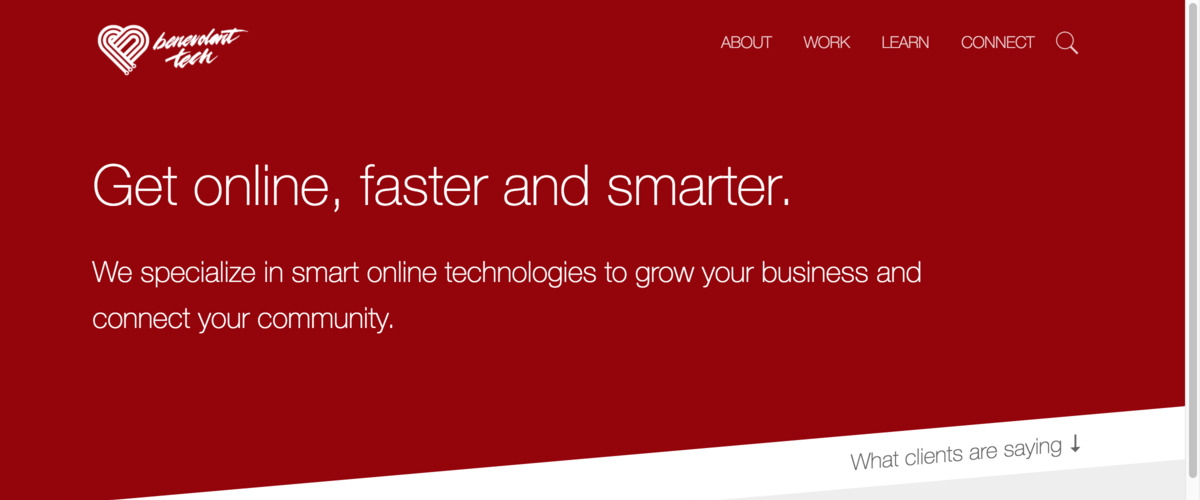
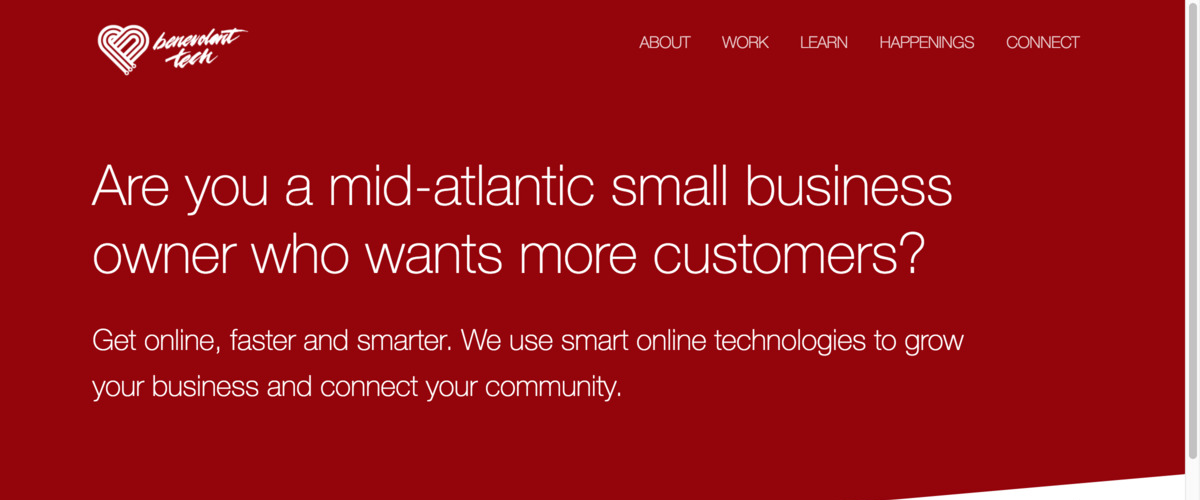
Tweaks to motto and mobile h2 size

diff --git a/css/screen.css b/css/screen.css
@@ -1,2 +1,2 @@
-html{background:#222}html,body{margin:0;padding:0}body{font-family:"Helvetica Neue", Helvetica, Arial, sans-serif}a{color:#94040B;text-decoration:none}a:hover{text-decoration:underline}img{max-width:100%;height:auto}h1{font-weight:300;font-size:2.3rem;margin:0}h2{font-weight:300;font-size:2.2rem;margin:0 0 30px 0}h3{font-size:1.8rem;margin:0 0 20px 0}h4{font-size:1.5rem;margin:0 0 10px 0}p,address,ul,ol,pre{margin:0 0 20px 0}p,address,ul,ol{font-size:1.38rem;color:#666;font-weight:300;line-height:1.6}pre{padding:10px;background:#eee;border-radius:2px}.container,.text-container{margin:0 auto;position:relative;padding:0 20px}.text-container{max-width:1000px}.container{max-width:1000px}.content{background:#fff;padding:1px 0 0 0;position:relative}.screenshot{height:auto;display:block;margin:0 auto;box-shadow:0 1px 0 #ccc, 0 1px 1px #eee;border-radius:2px;padding:20px 0 0;background:url("/images/screenshot-buttons.svg") 4px 4px no-repeat #DDD;box-shadow:0px 1px 2px rgba(0,0,0,0.1)}.editable ol{list-style-type:none;padding-left:0}.editable ol li{counter-increment:step-counter;position:relative;padding-left:67px;min-height:3em;padding-bottom:.5em}.editable ol li::before{position:absolute;left:0;top:0;content:counter(step-counter);font-size:2.5em;line-height:1.2em;background-color:#c8c8c8;color:white;font-weight:bold;padding:0 12px;border-radius:3px}section,footer{padding:100px 0;background:#fff;margin-top:-2px;position:relative}section.diagonal,footer.diagonal{-webkit-transform:skewY(-5deg);-moz-transform:skewY(-5deg);-ms-transform:skewY(-5deg);transform:skewY(-5deg)}section.diagonal>div:not(.not-skewed),footer.diagonal>div:not(.not-skewed){-webkit-transform:skewY(5deg);-moz-transform:skewY(5deg);-ms-transform:skewY(5deg);transform:skewY(5deg)}section.diagonal.diagonal-newsletter,footer.diagonal.diagonal-newsletter{background:#BCDEE0;text-align:center;padding:50px 0}section.diagonal.diagonal-newsletter form,footer.diagonal.diagonal-newsletter form{max-width:500px;width:80%;margin:auto}section.hero,footer.hero{color:#ffffff;background:#94040B;text-align:left;margin-top:-100px;padding-top:250px}section.hero h2,footer.hero h2,section.hero p,footer.hero p{max-width:90%}section.hero h2,footer.hero h2{font-size:3.3rem}@media (min-width: 620px){section.hero h2,footer.hero h2{font-size:3.5rem}}section.hero p,footer.hero p{font-size:1.5rem;color:#fff}@media (min-width: 620px){section.hero p,footer.hero p{font-size:1.8rem}}section.hero a:not(.button),footer.hero a:not(.button){color:#ffffff;font-style:italic}section.alternate,footer.alternate{background:#eee}section.share .blurb-share,footer.share .blurb-share{list-style-type:none;margin:0;padding:0;display:inline-block}section.share .blurb-share li,footer.share .blurb-share li{display:inline-block}section.share .blurb-share li a,footer.share .blurb-share li a{text-decoration:none}section.share .blurb-share li a svg,footer.share .blurb-share li a svg{fill:black;border:2px solid transparent}section.share .blurb-share li a svg:hover,footer.share .blurb-share li a svg:hover{border:2px solid black}section.partners table,footer.partners table{max-width:700px;width:100%;margin:auto;padding:30px 0}section.partners table td,footer.partners table td{padding:20px;width:30%}.button{-webkit-appearance:none;-moz-appearance:none;appearance:none;padding:13px 38px;border-radius:3px;transition:0.2s ease-in-out;display:inline-block;cursor:pointer;margin:20px 0 0 0;text-decoration:none !important;border:1px solid #94040B;color:#fff;background:#94040B}.button:hover{background:#BCDEE0;color:#222}.button.alt{border:1px solid #fff;color:#94040B;background:#fff}.button.alt:hover{background:#BCDEE0;color:#222}.button:active{opacity:1;background:rgba(255,255,255,0.1);color:#fff;transform:translateY(1px)}.halves{display:flex;flex-flow:wrap;align-items:center}.halves>div{flex:1 0 100%}@media (min-width: 620px){.halves>div{flex:1}.halves>div+div{padding-left:20px;margin:0}}.aligned-top{align-items:flex-start}.image-grid{padding:0;list-style:none;display:flex;flex-flow:wrap;text-align:center;margin:0 -20px}.image-grid li{padding:0;box-sizing:border-box;width:100%;position:relative;overflow:hidden;margin:20px;border-radius:5px;text-align:left;border:1px solid #94040B;line-height:0;background-size:cover;background-position:center center}.image-grid li.filler{display:none}@media (min-width: 768px){.image-grid li.filler{display:list-item}}.image-grid li:hover:not(.filler){box-shadow:0 0 8px 6px #BCDEE0;opacity:.8}@media (min-width: 620px){.image-grid li{flex:1 1 50%}}@media (min-width: 768px){.image-grid li{flex:1 1 30%}}.image-grid li>a{position:absolute;top:0;bottom:0;width:100%}.image-grid.home li{height:167px;display:none}@media (min-width: 620px){.image-grid.home li{display:list-item}}.image-grid.portfolio li,.image-grid.about li{height:300px}.image-grid .square-image{height:320px}.image-grid .square-image img{min-height:100%;width:100%;position:absolute;left:50%;top:50%;transform:translateX(-50%) translateY(-50%)}.image-grid .details{line-height:1.2;position:absolute;bottom:0;left:0;right:0;background:rgba(0,0,0,0.5);padding:20px}.image-grid .name{font-size:1.3rem;color:#BCDEE0}.image-grid .position{margin-top:5px;color:#fff}.image-grid .filler{border:0}.image-list,.image-list li{list-style:none;margin:0;padding:0;text-align:center;display:none;font-size:60px;line-height:1.1em}.image-list.image-list-right li,.image-list li.image-list-right li{padding-right:15%;text-align:right}@media (min-width: 620px){.image-list,.image-list li{display:list-item}}.patterned{background:#222 url("/images/pattern.png")}.patterned,.patterned p{color:#fefefe}.patterned a{color:#BCDEE0}@media (min-width: 620px){.hide-above-mobile{display:none}}.hide-on-mobile{display:none}@media (min-width: 620px){.hide-on-mobile{display:block}}section.map,footer.map{position:relative;height:100px;overflow:hidden}section.map>div,footer.map>div{position:absolute;top:-200px;left:0;right:0;bottom:-200px}.blog-posts{list-style:none;padding:0}.blog-posts li{margin:0 0 50px}.blog-post:last-of-type{margin-bottom:-70px}.blog-post h3{margin:0}.blog-post h3 a{color:#000;text-decoration:none;font-weight:normal;font-size:1.3em}.blog-post h2{text-align:left}.blog-post .post-details{margin:5px 0;font-size:1.2rem}.blog-post .post-details .blog-filter{display:inline-block;text-align:left}.blog-post .post-details .blog-filter a{position:relative;top:-5px}.blog-post .post-details a{text-decoration:none}.blog-post .post-details .post-date{position:relative;top:-3px;margin-left:5px}.blog-post .post-details:after{content:"";display:table;clear:both}.blog-post .post-content .button{margin:30px 0 0 0}.pagination{text-align:center}.blog-filter{text-align:center}.blog-filter a{background:#eee;padding:3px 5px;font-size:.8em;border-radius:5px;color:#888;transition:.2s ease-in-out}.blog-filter a:hover{color:#555;text-decoration:none}input[type=submit]{padding:20px 30px}textarea,input,button,select{font-family:inherit;font-size:inherit}input[type=submit]{margin:20px 0 0 0}label,input,textarea{display:block;width:100%;box-sizing:border-box}textarea{resize:vertical;height:250px}label{margin:30px 0 10px 0;font-size:1.2em}input,textarea{padding:20px;font-size:1.2em;border-radius:3px}input,textarea{-webkit-transition:all 0.30s ease-in-out;-moz-transition:all 0.30s ease-in-out;-ms-transition:all 0.30s ease-in-out;outline:none;border:1px solid #DDDDDD}input[type=text]:focus,input[type=email]:focus,input[type=password]:focus,textarea:focus{box-shadow:0 0 5px #51cbee;border:1px solid #51cbee}header{color:#fff;padding:20px 0;position:absolute;top:0;left:0;width:100%}header a{color:#fff;text-decoration:none;z-index:1;position:relative}header a:hover{text-decoration:none}header .company-name{background-image:url(/images/logo.png);background-size:contain;background-repeat:no-repeat;width:160px;height:70px;position:relative;z-index:99}header .company-name:hover{background-image:url(/images/logo-alt.png)}header .company-name::after{position:absolute;width:0;height:0;overflow:hidden;z-index:-1;content:url(/images/logo-alt.png)}header .company-name a{position:absolute;top:0;bottom:0;width:100%}header nav{text-transform:uppercase;font-size:0.8em;width:100%}header nav ul{margin:0;padding:0}header nav li{display:block}@media (min-width: 620px){header nav{text-align:right;position:absolute;top:0;right:0;padding:0 20px}header nav li{display:inline-block}}header nav a{margin:0 3px;padding:20px 10px;color:rgba(255,255,255,0.8);transition:0.2s ease-in-out;display:none;font-size:1rem}@media (min-width: 620px){header nav a{border-bottom:2px solid rgba(255,255,255,0);display:block;padding:10px}}header nav a.nav-toggle{display:inline;position:absolute;right:10px;top:-22px;font-size:3.2em;border:0}@media (min-width: 620px){header nav a.nav-toggle{display:none}}header nav a.nav-toggle:hover{border:0}header nav a:hover{color:#fff}@media (min-width: 620px){header nav a:hover{border-bottom:2px solid rgba(255,255,255,0.6);display:block;padding:10px}}@media (min-width: 620px){header nav a.highlight{border:1px #ccc solid;border-radius:5px}header nav a.highlight:hover{background:#fff;color:#94040B}}header nav a.active{color:#fff}.nav-open header{background:#444;z-index:10}@media (min-width: 620px){.nav-open header{background:none}}.nav-open nav{margin:20px 0 0 0;border:0}.nav-open nav a:not(.hide-on-mobile){display:block}@media (min-width: 620px){.nav-open nav{border:0;padding:0 20px}.nav-open nav a{display:inline}}footer{padding:100px 0 50px 0;position:relative;background:#222;color:#fff}footer,footer a{color:#999}footer h2{font-size:1.4em;margin:30px 0;color:#ccc}footer .footer-columns{display:none;margin:-10px -10px 10px -10px}@media (min-width: 620px){footer .footer-columns{display:flex;flex-flow:wrap}}footer a{text-decoration:none}footer a:hover{color:#fff}footer .legal-line{width:100%;padding:30px 0 0 0;margin:0}footer .legal-line a{font-style:italic}footer .legal-line.desktop{display:none}@media (min-width: 620px){footer .legal-line.desktop{display:block}}footer .legal-line.mobile{text-align:center;display:block}@media (min-width: 620px){footer .legal-line.mobile{display:none}}footer .footer-links{width:100%;margin:10px;padding:0;flex:1 0 180px}footer .footer-links li{list-style:none;margin:15px 0}footer .footer-links li a svg{fill:#999;margin-right:10px;transition:fill 0.2s ease;vertical-align:middle;position:relative;top:-2px;width:22px;height:22px}footer .footer-links li a:hover{text-decoration:none}footer .footer-links li a:hover svg{fill:#fff}footer .footer-links-mobile .footer-links{display:table}footer .footer-links-mobile .footer-links li{display:table-cell;text-align:center}footer .footer-links-mobile .footer-links li a svg{width:32px;height:32px}@media (min-width: 620px){footer .footer-links-mobile{display:none}}.editor-link{display:none;margin-top:0}.editor-link .btn{background-color:#f7e064;color:#333;box-shadow:1px 1px 5px 0 rgba(0,0,0,0.2);padding:10px;border-radius:2px}.editor-link .btn:hover{background-color:#f4d525;text-decoration:none;color:#333}.cms-editor-active .editor-link{display:block}.page--search{overflow-y:scroll;background:#FFF}.page--search .main{min-height:360px}.page--search #left-column{float:left;width:23%}.page--search #right-column{width:74%;margin-left:26%}.page--search #center-column{max-width:900px;margin-top:40px;width:95%;margin-left:auto;margin-right:auto}.page--search .clear:after{content:'';display:table;clear:both}.page--search #search-input input{font-size:28px;font-weight:100;width:100%;padding:10px 0 6px;border:none;border-bottom:5px solid #eee;margin-bottom:24px}.page--search #search-input input,.page--search #search-input input:focus{transition:border-color .3s ease-in;outline:0;box-shadow:none}.page--search #search-input input:focus{border-color:#ed5565}.page--search #search-input input::-webkit-input-placeholder,.page--search #search-input input:-moz-placeholder,.page--search #search-input input:-moz-placeholder,.page--search #search-input input:-ms-input-placeholder{font-weight:100;color:#999}.page--search #search-input-icon{position:relative}.page--search #search-input-icon:before{position:absolute;right:0;bottom:35px;width:20px;height:20px;content:'';cursor:default;background:url(/images/search_icon.png) no-repeat}.page--search #hits{margin:4px 0;padding:10px 0;border-top:2px solid #eee}.page--search .hit{font-size:0;padding:15px 15px;margin-left:-15px;margin-right:-15px;border-bottom:1px solid #eee;position:relative}.page--search .hit a{position:absolute;top:0;bottom:0;width:100%}.page--search .hit:hover{background:#BCDEE0}.page--search .hit-name{margin:0}.page--search .hit-image{display:inline-block;width:16%;text-align:center}.page--search .hit-image img{max-width:100%;max-height:180px}.page--search .hit-content{font-size:13px;font-weight:300;display:inline-block;width:81%;margin-left:3%;vertical-align:top}.page--search .hit-stars{font-size:17px;margin:4px 0;color:#868686}.page--search .hit-content .hit-price{float:right;margin-left:20px;color:#ffffff;background:#383838;padding:4px;border-radius:3px}.page--search .hit-content .hit-price,.page--search .hit-content .hit-name{font-size:25px;font-weight:normal;margin-top:0}.page--search .hit-content em{font-style:normal;color:#ed5565;border-bottom:solid 1px rgba(244,107,91,0.5)}.page--search .hit-content p{font-size:13px}.page--search .hit-description em{color:inherit}.page--search .hit-category-breadcrumb{margin:5px 0 2px 0}.page--search .hit-category-breadcrumb em{color:inherit}.page--search .hit-content .hit-description{color:#868686;margin:4px 0 10px 0;font-size:20px}.page--search #pagination{margin-top:60px}.page--search #pagination ul{font-size:0;list-style-type:none;text-align:center}.page--search #pagination li{font-size:14px;display:inline}.page--search #pagination a{padding:8px 12px;text-decoration:none;color:#000;border:1px solid #eee}.page--search #pagination a:hover{background:#f5f5f5}.page--search #pagination li:first-child a{border-top-left-radius:4px;border-bottom-left-radius:4px}.page--search #pagination li:last-child a{border-right:1px solid #eee;border-top-right-radius:4px;border-bottom-right-radius:4px}.page--search #pagination li.ais-pagination--item__active a{color:white;border-color:#ed5565;background:#ed5565}.page--search #pagination li.ais-pagination--item__active a:hover{cursor:default}.page--search #pagination li.ais-pagination--item__disabled a{cursor:not-allowed}.page--search #pagination li.ais-pagination--item__disabled a:hover{background:none}.page--search #sort-by-wrapper{font-weight:300;position:relative;float:right;color:#999}.page--search #sort-by select{font-size:16px;padding-right:14px;cursor:pointer;border:none;outline:none;background:none;-webkit-appearance:none;-moz-appearance:none}.page--search #sort-by:after{content:"";display:inline-block;position:absolute;top:8px;right:0;width:0;height:0;margin-left:2px;vertical-align:middle;color:#000;border-top:4px dashed;border-right:4px solid transparent;border-left:4px solid transparent;pointer-events:none}.page--search #stats .ais-stats--time{font-size:0.8em;color:#999}.page--search .facet{margin-bottom:24px;font-size:14px;color:#000}.page--search .facet h5{margin:0 0 6px;padding:0 0 6px;text-transform:uppercase;border-bottom:2px solid #eee}.page--search .facet ul{margin:0;padding:0;list-style-type:none}.page--search .facet li{margin-bottom:3px}.page--search .facet a:visited,.page--search .facet a{color:#000;text-decoration:none;cursor:pointer}.page--search .ais-root__collapsible .ais-header h5:hover{border-color:#c5c5c5;transition:border 500ms ease-out}.page--search .ais-root__collapsible.ais-root__collapsed .ais-header h5:hover{border-color:#333}.page--search .ais-root__collapsible .ais-header h5:before{display:inline-block;font:normal normal normal 16px/1 FontAwesome;content:"\f106";float:right}.page--search .ais-root__collapsible.ais-root__collapsed .ais-header h5:before{content:"\f107"}.page--search .ais-refinement-list--label,.page--search .ais-hierarchical-menu--list .facet-item,.page--search .ais-menu--link,.page--search .ais-price-ranges--item{cursor:pointer;line-height:1.5em}.page--search .ais-hierarchical-menu--list .ais-hierarchical-menu--item{margin:3px 0}.page--search .ais-hierarchical-menu--link:before{display:inline-block;font:normal normal normal 14px/1 FontAwesome;content:"\f105";padding:0 5px 0 0}.page--search .sffv_no-results{font-size:13px;line-height:1.2;padding-top:6px}.page--search .ais-refinement-list--label:hover,.page--search .ais-refinement-list--item__active .ais-refinement-list--label,.page--search .ais-menu--link:hover,.page--search .ais-menu--item__active .ais-menu--link,.page--search .ais-hierarchical-menu--list .facet-item.active:hover,.page--search .ais-hierarchical-menu--list .facet-item.active{color:#ed5565}.page--search .ais-refinement-list--item__active .ais-refinement-list--label:hover,.page--search .ais-menu--item__active .ais-menu--link:hover,.page--search .ais-hierarchical-menu--list .facet-item.active:hover{text-decoration:line-through;color:#ed5565}.page--search .ais-refinement-list--count,.page--search .ais-hierarchical-menu--count,.page--search .ais-menu--count,.page--search .ais-star-rating--count,.page--search .ais-toggle--count{position:relative;top:3px;float:right;color:#999}.page--search #type.facet .ais-refinement-list--checkbox{display:none}.page--search .no-results #pagination,.page--search .no-results #sort-by,.page--search .no-results #stats,.page--search .no-results #facets{display:none}.page--search #no-results-message{text-align:center}.page--search #no-results-message p{font-size:28px;font-weight:100}.page--search #no-results-message ul{list-style-type:none}.page--search #no-results-message li{font-size:12px;position:relative;display:inline-block;margin:4px 2px;padding:4px 28px 4px 8px;color:#999;border:1px solid #ddd;border-radius:12px}.page--search #no-results-message li span.value{font-weight:bold;color:#000}.page--search #no-results-message li a.remove img{position:absolute;top:3px;right:5px;float:right;width:17px;height:17px;opacity:.5}.page--search #no-results-message li a.remove:hover img{opacity:1}.page--search a.clear-all{font-size:12px;line-height:1;display:inline-block;margin:10px;padding:8px 12px;text-decoration:none;color:black;border:2px solid #ddd;border-radius:4px}.page--search a.clear-all:hover{transition:border-color .3s ease-in;border-color:#999}.page--search .ais-range-slider--target{margin:40px 30px 50px 0;font-size:13px}.page--search .ais-range-slider--connect{background:#ed5565}.page--search .ais-range-slider--handle{border-color:#ed5565}.page--search .ais-body.ais-range-slider--body{left:10px;position:relative}.page--search .ais-star-rating--star,.page--search .ais-star-rating--star__empty{display:inline-block;width:1em;height:1em}.page--search .ais-star-rating--star:before{content:'\2605';color:#FBAE00}.page--search .ais-star-rating--star__empty:before{content:'\2606';color:#FBAE00}.page--search .ais-star-rating--link__disabled .ais-star-rating--star:before,.page--search .ais-star-rating--link__disabled .ais-star-rating--star__empty:before{color:#C9C9C9}.page--search .ais-price-ranges--form{margin-top:8px}.page--search .ais-price-ranges--currency{display:inline-block;margin-right:4px}.page--search .ais-price-ranges--input{display:inline-block;width:50px;border-radius:2px;border:solid 1px #ccc;font-weight:normal;font-size:15px}.page--search .ais-price-ranges--button{padding:4px 7px;display:inline-block;margin:0 0 0 6px}.page--search .ais-toggle--label{cursor:pointer}.page--search .ais-show-more{font-weight:bold;opacity:.7;padding-left:4px;position:relative;line-height:25px;font-size:.9em}.page--search .ais-show-more:hover,.page--search .ais-show-more:focus{opacity:1}.page--search .ais-show-more:before{font-family:FontAwesome;font-style:inherit;font-weight:inherit;text-decoration:inherit;display:inline-block;position:relative;content:'';margin:0 5px 0 0}.page--search .ais-show-more__inactive:before{content:"\f0fe"}.page--search .ais-show-more__active:before{content:"\f146"}.page--search .ais-current-refined-values{position:relative}.page--search footer{font-size:14px;margin-top:200px;margin-bottom:15px;text-align:center}.page--search footer a{text-decoration:none;color:#ed5565}.page--search footer a:hover{text-decoration:underline;color:#ed5565}.page--search .algolia__result-highlight{border-bottom:2px solid #94040B}.page--search #back-button{position:absolute;top:10px;right:10px;height:28px;width:28px}.page--search #back-button a:hover polygon{fill:#94040B}
+html{background:#222}html,body{margin:0;padding:0}body{font-family:"Helvetica Neue", Helvetica, Arial, sans-serif}a{color:#94040B;text-decoration:none}a:hover{text-decoration:underline}img{max-width:100%;height:auto}h1{font-weight:300;font-size:2.3rem;margin:0}h2{font-weight:300;font-size:2.2rem;margin:0 0 30px 0}h3{font-size:1.8rem;margin:0 0 20px 0}h4{font-size:1.5rem;margin:0 0 10px 0}p,address,ul,ol,pre{margin:0 0 20px 0}p,address,ul,ol{font-size:1.38rem;color:#666;font-weight:300;line-height:1.6}pre{padding:10px;background:#eee;border-radius:2px}.container,.text-container{margin:0 auto;position:relative;padding:0 20px}.text-container{max-width:1000px}.container{max-width:1000px}.content{background:#fff;padding:1px 0 0 0;position:relative}.screenshot{height:auto;display:block;margin:0 auto;box-shadow:0 1px 0 #ccc, 0 1px 1px #eee;border-radius:2px;padding:20px 0 0;background:url("/images/screenshot-buttons.svg") 4px 4px no-repeat #DDD;box-shadow:0px 1px 2px rgba(0,0,0,0.1)}.editable ol{list-style-type:none;padding-left:0}.editable ol li{counter-increment:step-counter;position:relative;padding-left:67px;min-height:3em;padding-bottom:.5em}.editable ol li::before{position:absolute;left:0;top:0;content:counter(step-counter);font-size:2.5em;line-height:1.2em;background-color:#c8c8c8;color:white;font-weight:bold;padding:0 12px;border-radius:3px}section,footer{padding:100px 0;background:#fff;margin-top:-2px;position:relative}section.diagonal,footer.diagonal{-webkit-transform:skewY(-5deg);-moz-transform:skewY(-5deg);-ms-transform:skewY(-5deg);transform:skewY(-5deg)}section.diagonal>div:not(.not-skewed),footer.diagonal>div:not(.not-skewed){-webkit-transform:skewY(5deg);-moz-transform:skewY(5deg);-ms-transform:skewY(5deg);transform:skewY(5deg)}section.diagonal.diagonal-newsletter,footer.diagonal.diagonal-newsletter{background:#BCDEE0;text-align:center;padding:50px 0}section.diagonal.diagonal-newsletter form,footer.diagonal.diagonal-newsletter form{max-width:500px;width:80%;margin:auto}section.hero,footer.hero{color:#ffffff;background:#94040B;text-align:left;margin-top:-100px;padding-top:250px}section.hero h2,footer.hero h2,section.hero p,footer.hero p{max-width:90%}section.hero h2,footer.hero h2{font-size:2.6rem}@media (min-width: 620px){section.hero h2,footer.hero h2{font-size:3.3rem}}section.hero p,footer.hero p{font-size:1.5rem;color:#fff}@media (min-width: 620px){section.hero p,footer.hero p{font-size:1.8rem}}section.hero a:not(.button),footer.hero a:not(.button){color:#ffffff;font-style:italic}section.alternate,footer.alternate{background:#eee}section.share .blurb-share,footer.share .blurb-share{list-style-type:none;margin:0;padding:0;display:inline-block}section.share .blurb-share li,footer.share .blurb-share li{display:inline-block}section.share .blurb-share li a,footer.share .blurb-share li a{text-decoration:none}section.share .blurb-share li a svg,footer.share .blurb-share li a svg{fill:black;border:2px solid transparent}section.share .blurb-share li a svg:hover,footer.share .blurb-share li a svg:hover{border:2px solid black}section.partners table,footer.partners table{max-width:700px;width:100%;margin:auto;padding:30px 0}section.partners table td,footer.partners table td{padding:20px;width:30%}.button{-webkit-appearance:none;-moz-appearance:none;appearance:none;padding:13px 38px;border-radius:3px;transition:0.2s ease-in-out;display:inline-block;cursor:pointer;margin:20px 0 0 0;text-decoration:none !important;border:1px solid #94040B;color:#fff;background:#94040B}.button:hover{background:#BCDEE0;color:#222}.button.alt{border:1px solid #fff;color:#94040B;background:#fff}.button.alt:hover{background:#BCDEE0;color:#222}.button:active{opacity:1;background:rgba(255,255,255,0.1);color:#fff;transform:translateY(1px)}.halves{display:flex;flex-flow:wrap;align-items:center}.halves>div{flex:1 0 100%}@media (min-width: 620px){.halves>div{flex:1}.halves>div+div{padding-left:20px;margin:0}}.aligned-top{align-items:flex-start}.image-grid{padding:0;list-style:none;display:flex;flex-flow:wrap;text-align:center;margin:0 -20px}.image-grid li{padding:0;box-sizing:border-box;width:100%;position:relative;overflow:hidden;margin:20px;border-radius:5px;text-align:left;border:1px solid #94040B;line-height:0;background-size:cover;background-position:center center}.image-grid li.filler{display:none}@media (min-width: 768px){.image-grid li.filler{display:list-item}}.image-grid li:hover:not(.filler){box-shadow:0 0 8px 6px #BCDEE0;opacity:.8}@media (min-width: 620px){.image-grid li{flex:1 1 50%}}@media (min-width: 768px){.image-grid li{flex:1 1 30%}}.image-grid li>a{position:absolute;top:0;bottom:0;width:100%}.image-grid.home li{height:167px;display:none}@media (min-width: 620px){.image-grid.home li{display:list-item}}.image-grid.portfolio li,.image-grid.about li{height:300px}.image-grid .square-image{height:320px}.image-grid .square-image img{min-height:100%;width:100%;position:absolute;left:50%;top:50%;transform:translateX(-50%) translateY(-50%)}.image-grid .details{line-height:1.2;position:absolute;bottom:0;left:0;right:0;background:rgba(0,0,0,0.5);padding:20px}.image-grid .name{font-size:1.3rem;color:#BCDEE0}.image-grid .position{margin-top:5px;color:#fff}.image-grid .filler{border:0}.image-list,.image-list li{list-style:none;margin:0;padding:0;text-align:center;display:none;font-size:60px;line-height:1.1em}.image-list.image-list-right li,.image-list li.image-list-right li{padding-right:15%;text-align:right}@media (min-width: 620px){.image-list,.image-list li{display:list-item}}.patterned{background:#222 url("/images/pattern.png")}.patterned,.patterned p{color:#fefefe}.patterned a{color:#BCDEE0}@media (min-width: 620px){.hide-above-mobile{display:none}}.hide-on-mobile{display:none}@media (min-width: 620px){.hide-on-mobile{display:block}}section.map,footer.map{position:relative;height:100px;overflow:hidden}section.map>div,footer.map>div{position:absolute;top:-200px;left:0;right:0;bottom:-200px}.blog-posts{list-style:none;padding:0}.blog-posts li{margin:0 0 50px}.blog-post:last-of-type{margin-bottom:-70px}.blog-post h3{margin:0}.blog-post h3 a{color:#000;text-decoration:none;font-weight:normal;font-size:1.3em}.blog-post h2{text-align:left}.blog-post .post-details{margin:5px 0;font-size:1.2rem}.blog-post .post-details .blog-filter{display:inline-block;text-align:left}.blog-post .post-details .blog-filter a{position:relative;top:-5px}.blog-post .post-details a{text-decoration:none}.blog-post .post-details .post-date{position:relative;top:-3px;margin-left:5px}.blog-post .post-details:after{content:"";display:table;clear:both}.blog-post .post-content .button{margin:30px 0 0 0}.pagination{text-align:center}.blog-filter{text-align:center}.blog-filter a{background:#eee;padding:3px 5px;font-size:.8em;border-radius:5px;color:#888;transition:.2s ease-in-out}.blog-filter a:hover{color:#555;text-decoration:none}input[type=submit]{padding:20px 30px}textarea,input,button,select{font-family:inherit;font-size:inherit}input[type=submit]{margin:20px 0 0 0}label,input,textarea{display:block;width:100%;box-sizing:border-box}textarea{resize:vertical;height:250px}label{margin:30px 0 10px 0;font-size:1.2em}input,textarea{padding:20px;font-size:1.2em;border-radius:3px}input,textarea{-webkit-transition:all 0.30s ease-in-out;-moz-transition:all 0.30s ease-in-out;-ms-transition:all 0.30s ease-in-out;outline:none;border:1px solid #DDDDDD}input[type=text]:focus,input[type=email]:focus,input[type=password]:focus,textarea:focus{box-shadow:0 0 5px #51cbee;border:1px solid #51cbee}header{color:#fff;padding:20px 0;position:absolute;top:0;left:0;width:100%}header a{color:#fff;text-decoration:none;z-index:1;position:relative}header a:hover{text-decoration:none}header .company-name{background-image:url(/images/logo.png);background-size:contain;background-repeat:no-repeat;width:160px;height:70px;position:relative;z-index:99}header .company-name:hover{background-image:url(/images/logo-alt.png)}header .company-name::after{position:absolute;width:0;height:0;overflow:hidden;z-index:-1;content:url(/images/logo-alt.png)}header .company-name a{position:absolute;top:0;bottom:0;width:100%}header nav{text-transform:uppercase;font-size:0.8em;width:100%}header nav ul{margin:0;padding:0}header nav li{display:block}@media (min-width: 620px){header nav{text-align:right;position:absolute;top:0;right:0;padding:0 20px}header nav li{display:inline-block}}header nav a{margin:0 3px;padding:20px 10px;color:rgba(255,255,255,0.8);transition:0.2s ease-in-out;display:none;font-size:1rem}@media (min-width: 620px){header nav a{border-bottom:2px solid rgba(255,255,255,0);display:block;padding:10px}}header nav a.nav-toggle{display:inline;position:absolute;right:10px;top:-22px;font-size:3.2em;border:0}@media (min-width: 620px){header nav a.nav-toggle{display:none}}header nav a.nav-toggle:hover{border:0}header nav a:hover{color:#fff}@media (min-width: 620px){header nav a:hover{border-bottom:2px solid rgba(255,255,255,0.6);display:block;padding:10px}}@media (min-width: 620px){header nav a.highlight{border:1px #ccc solid;border-radius:5px}header nav a.highlight:hover{background:#fff;color:#94040B}}header nav a.active{color:#fff}.nav-open header{background:#444;z-index:10}@media (min-width: 620px){.nav-open header{background:none}}.nav-open nav{margin:20px 0 0 0;border:0}.nav-open nav a:not(.hide-on-mobile){display:block}@media (min-width: 620px){.nav-open nav{border:0;padding:0 20px}.nav-open nav a{display:inline}}footer{padding:100px 0 50px 0;position:relative;background:#222;color:#fff}footer,footer a{color:#999}footer h2{font-size:1.4em;margin:30px 0;color:#ccc}footer .footer-columns{display:none;margin:-10px -10px 10px -10px}@media (min-width: 620px){footer .footer-columns{display:flex;flex-flow:wrap}}footer a{text-decoration:none}footer a:hover{color:#fff}footer .legal-line{width:100%;padding:30px 0 0 0;margin:0}footer .legal-line a{font-style:italic}footer .legal-line.desktop{display:none}@media (min-width: 620px){footer .legal-line.desktop{display:block}}footer .legal-line.mobile{text-align:center;display:block}@media (min-width: 620px){footer .legal-line.mobile{display:none}}footer .footer-links{width:100%;margin:10px;padding:0;flex:1 0 180px}footer .footer-links li{list-style:none;margin:15px 0}footer .footer-links li a svg{fill:#999;margin-right:10px;transition:fill 0.2s ease;vertical-align:middle;position:relative;top:-2px;width:22px;height:22px}footer .footer-links li a:hover{text-decoration:none}footer .footer-links li a:hover svg{fill:#fff}footer .footer-links-mobile .footer-links{display:table}footer .footer-links-mobile .footer-links li{display:table-cell;text-align:center}footer .footer-links-mobile .footer-links li a svg{width:32px;height:32px}@media (min-width: 620px){footer .footer-links-mobile{display:none}}.editor-link{display:none;margin-top:0}.editor-link .btn{background-color:#f7e064;color:#333;box-shadow:1px 1px 5px 0 rgba(0,0,0,0.2);padding:10px;border-radius:2px}.editor-link .btn:hover{background-color:#f4d525;text-decoration:none;color:#333}.cms-editor-active .editor-link{display:block}.page--search{overflow-y:scroll;background:#FFF}.page--search .main{min-height:360px}.page--search #left-column{float:left;width:23%}.page--search #right-column{width:74%;margin-left:26%}.page--search #center-column{max-width:900px;margin-top:40px;width:95%;margin-left:auto;margin-right:auto}.page--search .clear:after{content:'';display:table;clear:both}.page--search #search-input input{font-size:28px;font-weight:100;width:100%;padding:10px 0 6px;border:none;border-bottom:5px solid #eee;margin-bottom:24px}.page--search #search-input input,.page--search #search-input input:focus{transition:border-color .3s ease-in;outline:0;box-shadow:none}.page--search #search-input input:focus{border-color:#ed5565}.page--search #search-input input::-webkit-input-placeholder,.page--search #search-input input:-moz-placeholder,.page--search #search-input input:-moz-placeholder,.page--search #search-input input:-ms-input-placeholder{font-weight:100;color:#999}.page--search #search-input-icon{position:relative}.page--search #search-input-icon:before{position:absolute;right:0;bottom:35px;width:20px;height:20px;content:'';cursor:default;background:url(/images/search_icon.png) no-repeat}.page--search #hits{margin:4px 0;padding:10px 0;border-top:2px solid #eee}.page--search .hit{font-size:0;padding:15px 15px;margin-left:-15px;margin-right:-15px;border-bottom:1px solid #eee;position:relative}.page--search .hit a{position:absolute;top:0;bottom:0;width:100%}.page--search .hit:hover{background:#BCDEE0}.page--search .hit-name{margin:0}.page--search .hit-image{display:inline-block;width:16%;text-align:center}.page--search .hit-image img{max-width:100%;max-height:180px}.page--search .hit-content{font-size:13px;font-weight:300;display:inline-block;width:81%;margin-left:3%;vertical-align:top}.page--search .hit-stars{font-size:17px;margin:4px 0;color:#868686}.page--search .hit-content .hit-price{float:right;margin-left:20px;color:#ffffff;background:#383838;padding:4px;border-radius:3px}.page--search .hit-content .hit-price,.page--search .hit-content .hit-name{font-size:25px;font-weight:normal;margin-top:0}.page--search .hit-content em{font-style:normal;color:#ed5565;border-bottom:solid 1px rgba(244,107,91,0.5)}.page--search .hit-content p{font-size:13px}.page--search .hit-description em{color:inherit}.page--search .hit-category-breadcrumb{margin:5px 0 2px 0}.page--search .hit-category-breadcrumb em{color:inherit}.page--search .hit-content .hit-description{color:#868686;margin:4px 0 10px 0;font-size:20px}.page--search #pagination{margin-top:60px}.page--search #pagination ul{font-size:0;list-style-type:none;text-align:center}.page--search #pagination li{font-size:14px;display:inline}.page--search #pagination a{padding:8px 12px;text-decoration:none;color:#000;border:1px solid #eee}.page--search #pagination a:hover{background:#f5f5f5}.page--search #pagination li:first-child a{border-top-left-radius:4px;border-bottom-left-radius:4px}.page--search #pagination li:last-child a{border-right:1px solid #eee;border-top-right-radius:4px;border-bottom-right-radius:4px}.page--search #pagination li.ais-pagination--item__active a{color:white;border-color:#ed5565;background:#ed5565}.page--search #pagination li.ais-pagination--item__active a:hover{cursor:default}.page--search #pagination li.ais-pagination--item__disabled a{cursor:not-allowed}.page--search #pagination li.ais-pagination--item__disabled a:hover{background:none}.page--search #sort-by-wrapper{font-weight:300;position:relative;float:right;color:#999}.page--search #sort-by select{font-size:16px;padding-right:14px;cursor:pointer;border:none;outline:none;background:none;-webkit-appearance:none;-moz-appearance:none}.page--search #sort-by:after{content:"";display:inline-block;position:absolute;top:8px;right:0;width:0;height:0;margin-left:2px;vertical-align:middle;color:#000;border-top:4px dashed;border-right:4px solid transparent;border-left:4px solid transparent;pointer-events:none}.page--search #stats .ais-stats--time{font-size:0.8em;color:#999}.page--search .facet{margin-bottom:24px;font-size:14px;color:#000}.page--search .facet h5{margin:0 0 6px;padding:0 0 6px;text-transform:uppercase;border-bottom:2px solid #eee}.page--search .facet ul{margin:0;padding:0;list-style-type:none}.page--search .facet li{margin-bottom:3px}.page--search .facet a:visited,.page--search .facet a{color:#000;text-decoration:none;cursor:pointer}.page--search .ais-root__collapsible .ais-header h5:hover{border-color:#c5c5c5;transition:border 500ms ease-out}.page--search .ais-root__collapsible.ais-root__collapsed .ais-header h5:hover{border-color:#333}.page--search .ais-root__collapsible .ais-header h5:before{display:inline-block;font:normal normal normal 16px/1 FontAwesome;content:"\f106";float:right}.page--search .ais-root__collapsible.ais-root__collapsed .ais-header h5:before{content:"\f107"}.page--search .ais-refinement-list--label,.page--search .ais-hierarchical-menu--list .facet-item,.page--search .ais-menu--link,.page--search .ais-price-ranges--item{cursor:pointer;line-height:1.5em}.page--search .ais-hierarchical-menu--list .ais-hierarchical-menu--item{margin:3px 0}.page--search .ais-hierarchical-menu--link:before{display:inline-block;font:normal normal normal 14px/1 FontAwesome;content:"\f105";padding:0 5px 0 0}.page--search .sffv_no-results{font-size:13px;line-height:1.2;padding-top:6px}.page--search .ais-refinement-list--label:hover,.page--search .ais-refinement-list--item__active .ais-refinement-list--label,.page--search .ais-menu--link:hover,.page--search .ais-menu--item__active .ais-menu--link,.page--search .ais-hierarchical-menu--list .facet-item.active:hover,.page--search .ais-hierarchical-menu--list .facet-item.active{color:#ed5565}.page--search .ais-refinement-list--item__active .ais-refinement-list--label:hover,.page--search .ais-menu--item__active .ais-menu--link:hover,.page--search .ais-hierarchical-menu--list .facet-item.active:hover{text-decoration:line-through;color:#ed5565}.page--search .ais-refinement-list--count,.page--search .ais-hierarchical-menu--count,.page--search .ais-menu--count,.page--search .ais-star-rating--count,.page--search .ais-toggle--count{position:relative;top:3px;float:right;color:#999}.page--search #type.facet .ais-refinement-list--checkbox{display:none}.page--search .no-results #pagination,.page--search .no-results #sort-by,.page--search .no-results #stats,.page--search .no-results #facets{display:none}.page--search #no-results-message{text-align:center}.page--search #no-results-message p{font-size:28px;font-weight:100}.page--search #no-results-message ul{list-style-type:none}.page--search #no-results-message li{font-size:12px;position:relative;display:inline-block;margin:4px 2px;padding:4px 28px 4px 8px;color:#999;border:1px solid #ddd;border-radius:12px}.page--search #no-results-message li span.value{font-weight:bold;color:#000}.page--search #no-results-message li a.remove img{position:absolute;top:3px;right:5px;float:right;width:17px;height:17px;opacity:.5}.page--search #no-results-message li a.remove:hover img{opacity:1}.page--search a.clear-all{font-size:12px;line-height:1;display:inline-block;margin:10px;padding:8px 12px;text-decoration:none;color:black;border:2px solid #ddd;border-radius:4px}.page--search a.clear-all:hover{transition:border-color .3s ease-in;border-color:#999}.page--search .ais-range-slider--target{margin:40px 30px 50px 0;font-size:13px}.page--search .ais-range-slider--connect{background:#ed5565}.page--search .ais-range-slider--handle{border-color:#ed5565}.page--search .ais-body.ais-range-slider--body{left:10px;position:relative}.page--search .ais-star-rating--star,.page--search .ais-star-rating--star__empty{display:inline-block;width:1em;height:1em}.page--search .ais-star-rating--star:before{content:'\2605';color:#FBAE00}.page--search .ais-star-rating--star__empty:before{content:'\2606';color:#FBAE00}.page--search .ais-star-rating--link__disabled .ais-star-rating--star:before,.page--search .ais-star-rating--link__disabled .ais-star-rating--star__empty:before{color:#C9C9C9}.page--search .ais-price-ranges--form{margin-top:8px}.page--search .ais-price-ranges--currency{display:inline-block;margin-right:4px}.page--search .ais-price-ranges--input{display:inline-block;width:50px;border-radius:2px;border:solid 1px #ccc;font-weight:normal;font-size:15px}.page--search .ais-price-ranges--button{padding:4px 7px;display:inline-block;margin:0 0 0 6px}.page--search .ais-toggle--label{cursor:pointer}.page--search .ais-show-more{font-weight:bold;opacity:.7;padding-left:4px;position:relative;line-height:25px;font-size:.9em}.page--search .ais-show-more:hover,.page--search .ais-show-more:focus{opacity:1}.page--search .ais-show-more:before{font-family:FontAwesome;font-style:inherit;font-weight:inherit;text-decoration:inherit;display:inline-block;position:relative;content:'';margin:0 5px 0 0}.page--search .ais-show-more__inactive:before{content:"\f0fe"}.page--search .ais-show-more__active:before{content:"\f146"}.page--search .ais-current-refined-values{position:relative}.page--search footer{font-size:14px;margin-top:200px;margin-bottom:15px;text-align:center}.page--search footer a{text-decoration:none;color:#ed5565}.page--search footer a:hover{text-decoration:underline;color:#ed5565}.page--search .algolia__result-highlight{border-bottom:2px solid #94040B}.page--search #back-button{position:absolute;top:10px;right:10px;height:28px;width:28px}.page--search #back-button a:hover polygon{fill:#94040B}
 /*# sourceMappingURL=screen.css.map */

diff --git a/index.html b/index.html
@@ -1,14 +1,15 @@
 ---
 title: Benevolent Tech
 heading: 'DC Based SEO, Online Marketing and Website Development'
-description: 'Get online, faster and smarter. We specialize in smart online technologies to grow your business and connect your community.'
+description: 'Are you a mid-atlantic small business owner who wants more customers? Get online, faster and smarter. We use smart online technologies to grow your business and connect your community.'
 image: /images/benevolent_tech_dc_seo.png
 ---
 
 <section class="hero diagonal">
   <div class="container">
-    <h2 class="editable">Get online, faster and smarter.</h2>
-    <p class="subtext editable">We specialize in smart online technologies to grow your business and connect your community.</p>
+    <h1 style="display:none;">{{ page.heading }}</h1>
+    <h2 class="editable">Are you a mid-atlantic small business owner who wants more customers?</h2>
+    <p class="subtext editable">Get online, faster and smarter. We use smart online technologies to grow your business and connect your community.</p>
     <!--<p style="margin-bottom:-30px;">What clients are saying &#8595;</p>-->
     <!--<p><a class="button alt" href="{{ site.baseurl }}/contact/">See Pricing<p></p>-->
   </div>

diff --git a/_layouts/page.html b/_layouts/page.html
@@ -4,10 +4,16 @@ layout: default
 <section class="hero diagonal">
 	<div class="container" {% if page.full_width %}style="max-width: 100%"{% endif %}>
 		{% if page.heading %}
-			<h2>{{ page.heading }}</h2>
+			{% assign heading = page.heading %}
 		{% elsif page.title %}
-			<h2>{{ page.title }}</h2>
+			{% assign heading = page.title %}
 		{% endif %}
+
+		{% if heading %}
+			<h1 style="display:none;">{{ heading }}</h1>
+			<h2>{{ heading }}</h2>
+		{% endif %}
+
 		{% if page.subtitle %}
 			<p class="subtext">
 				{{ page.subtitle }}

diff --git a/css/_src/layout.scss b/css/_src/layout.scss
@@ -100,9 +100,9 @@ section {
     }
 
     h2 {
-      font-size: 3.3rem;
+      font-size: 2.6rem;
       @media #{$mid-point} {
-        font-size: 3.5rem;
+        font-size: 3.3rem;
       }
     }
 
